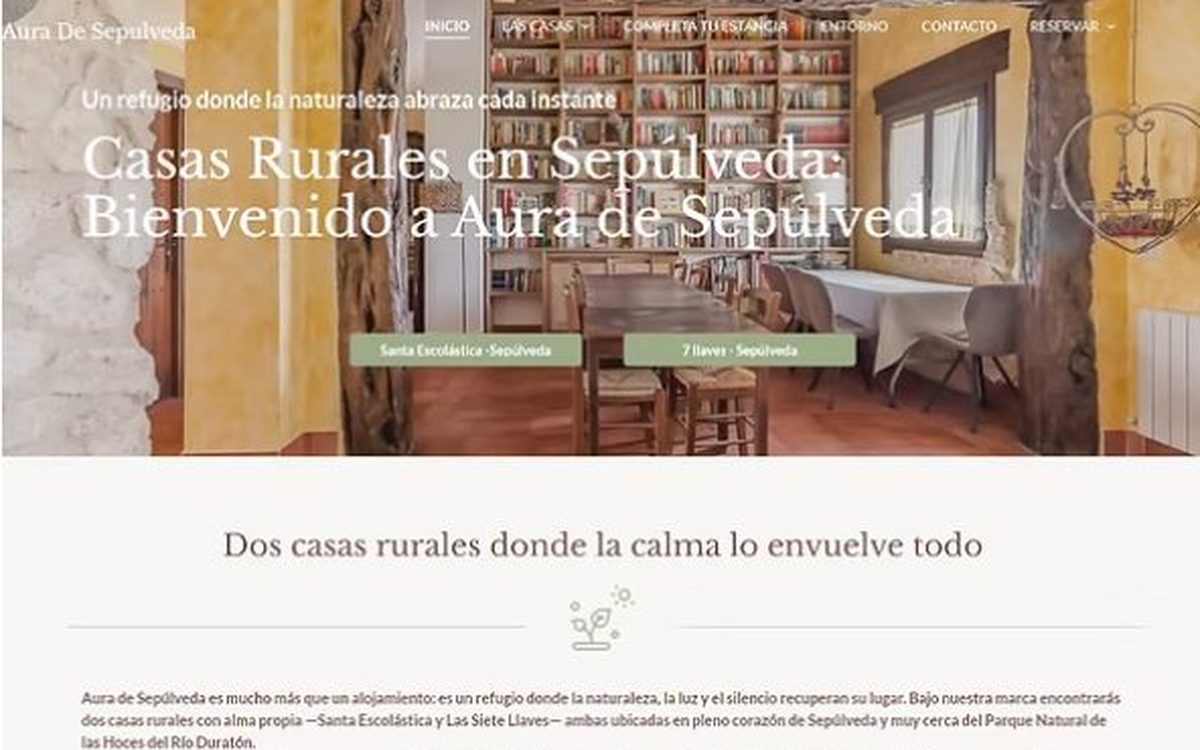
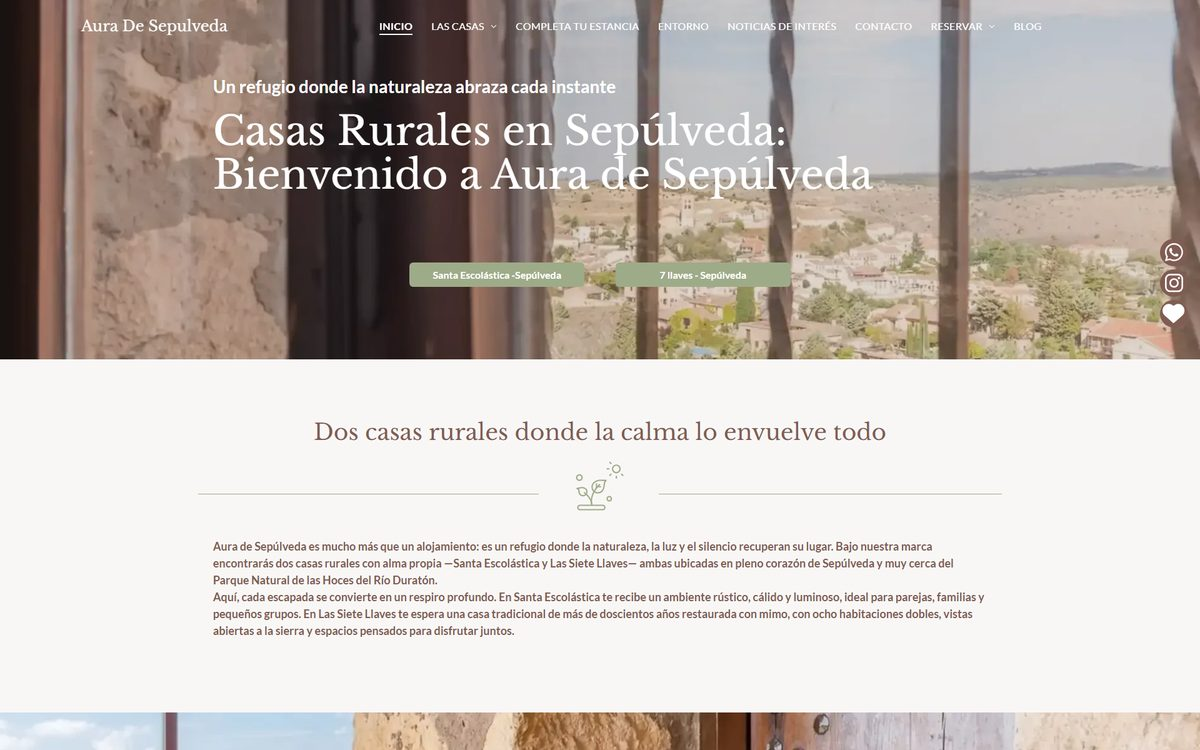
Capturas nuevas de Talauto y Aura, y arreglo del minimóvil en iPhone

diff --git a/index.html b/index.html
@@ -11,7 +11,7 @@
 <link rel="preconnect" href="https://fonts.googleapis.com">
 <link rel="preconnect" href="https://fonts.gstatic.com" crossorigin>
 <link href="https://fonts.googleapis.com/css2?family=Archivo:wdth,wght@125,400;125,500;125,700;125,800&family=DM+Sans:ital,wght@0,400;0,500;0,700;1,400&family=JetBrains+Mono:wght@400;500;700&display=swap" rel="stylesheet">
-<link rel="stylesheet" href="css/styles.css">
+<link rel="stylesheet" href="css/styles.css?v=2">
 </head>
 <body>
 
@@ -181,13 +181,13 @@
 <details class="pj-more"><summary>Qué hice</summary><ul><li>Definición de la página a partir de las necesidades del servicio de Career &amp; Talent.</li><li>Diseño en Figma e implementación completa, de escritorio a móvil.</li><li>Formulario de inscripción en tres pasos para reducir la fricción.</li><li>Perfiles, beneficios y requisitos ordenados para que la empresa decida rápido.</li><li>Vídeos por edición, galería y logos de empresas para generar confianza.</li></ul></details>
 <a class="pj-link" href="https://eventos.nuclio.school/hiring-day" target="_blank" rel="noopener">Visitar la web<svg width="14" height="14" viewBox="0 0 14 14" aria-hidden="true"><path d="M3 11 11 3M5 3h6v6" fill="none" stroke="currentColor" stroke-width="2"/></svg></a></div>
 </article><article class="pj flip" id="proyecto-talauto">
-<div class="pj-media"><div class="pj-browser"><div class="pj-bar" aria-hidden="true"><span></span><span></span><span></span><em>talauto.com</em></div><div class="pj-view pj-fill" aria-label="Web de Talauto en escritorio"><img src="assets/img/talauto.jpg" alt="Web de Talauto en escritorio"></div></div><div class="pj-phone" tabindex="0" aria-label="Web de Talauto en móvil, desplazable"><img src="assets/img/talauto-en-movil.jpg" alt="Web de Talauto en móvil"></div></div>
+<div class="pj-media"><div class="pj-browser"><div class="pj-bar" aria-hidden="true"><span></span><span></span><span></span><em>talauto.com</em></div><div class="pj-view" tabindex="0" aria-label="Web de Talauto en escritorio, desplazable"><img src="assets/img/talauto-en-escritorio.jpg" alt="Web de Talauto en escritorio"></div></div><div class="pj-phone" tabindex="0" aria-label="Web de Talauto en móvil, desplazable"><img src="assets/img/talauto-en-movil.jpg" alt="Web de Talauto en móvil"></div></div>
 <div class="pj-txt"><p class="pj-tag">Desarrollo Front-End</p><h3 class="d">talauto.com</h3><p class="pj-title">Reinventando la compra de coches online</p><p class="pj-sum">Concesionario con más de 50 años de historia y referente en la zona centro de España.</p><ul class="pj-tech" aria-label="Tecnologías"><li>HTML</li><li>CSS</li><li>SASS</li><li>JavaScript</li><li>jQuery</li><li>Bootstrap</li><li>Twig</li><li>Phalcon</li><li>SQL</li><li>Git</li></ul>
 <dl class="pj-meta"><div><dt>Empresa</dt><dd>inventario.pro</dd></div><div><dt>Rol</dt><dd>Desarrolladora web principal</dd></div><div><dt>Sector</dt><dd>Automoción, Toledo</dd></div></dl>
 <details class="pj-more"><summary>Qué hice</summary><ul><li>Maquetación front-end de vistas y secciones clave, con código limpio y responsive.</li><li>Rediseño y refactorización de componentes UI.</li><li>Jerarquía de contenidos para buscar y comparar vehículos.</li><li>Experiencia móvil preparada para mucha información y filtros.</li></ul></details>
 <a class="pj-link" href="https://talauto.com" target="_blank" rel="noopener">Visitar la web<svg width="14" height="14" viewBox="0 0 14 14" aria-hidden="true"><path d="M3 11 11 3M5 3h6v6" fill="none" stroke="currentColor" stroke-width="2"/></svg></a></div>
 </article><article class="pj" id="proyecto-aura-de-sepulveda">
-<div class="pj-media"><div class="pj-browser"><div class="pj-bar" aria-hidden="true"><span></span><span></span><span></span><em>auradesepulveda.com</em></div><div class="pj-view pj-fill" aria-label="Web de Aura de Sepúlveda en escritorio"><img src="assets/img/aura-de-sepulveda.jpg" alt="Web de Aura de Sepúlveda en escritorio"></div></div><div class="pj-phone" tabindex="0" aria-label="Web de Aura de Sepúlveda en móvil, desplazable"><img src="assets/img/aura-de-sepulveda-en-movil.jpg" alt="Web de Aura de Sepúlveda en móvil"></div></div>
+<div class="pj-media"><div class="pj-browser"><div class="pj-bar" aria-hidden="true"><span></span><span></span><span></span><em>auradesepulveda.com</em></div><div class="pj-view" tabindex="0" aria-label="Web de Aura de Sepúlveda en escritorio, desplazable"><img src="assets/img/aura-de-sepulveda-en-escritorio.jpg" alt="Web de Aura de Sepúlveda en escritorio"></div></div><div class="pj-phone" tabindex="0" aria-label="Web de Aura de Sepúlveda en móvil, desplazable"><img src="assets/img/aura-de-sepulveda-en-movil.jpg" alt="Web de Aura de Sepúlveda en móvil"></div></div>
 <div class="pj-txt"><p class="pj-tag ux">Diseño UI/UX</p><h3 class="d">auradesepulveda.com</h3><p class="pj-title">Una experiencia de calma antes incluso de reservar</p><p class="pj-sum">Dos casas rurales con personalidad propia junto a las Hoces del Río Duratón.</p><ul class="pj-tech" aria-label="Tecnologías"><li>Duda</li><li>Componentes personalizados</li><li>Diseño responsive</li><li>SEO</li><li>IA generativa</li><li>Salesforce</li></ul>
 <dl class="pj-meta"><div><dt>Empresa</dt><dd>beedigital</dd></div><div><dt>Rol</dt><dd>Diseñadora web y maquetadora</dd></div><div><dt>Sector</dt><dd>Turismo rural, Segovia</dd></div></dl>
 <details class="pj-more"><summary>Qué hice</summary><ul><li>Arquitectura de la información para dos casas con coherencia.</li><li>Storytelling visual con fotografía protagonista.</li><li>Jerarquías que equilibran emoción e información práctica.</li><li>CTAs de reserva integrados sin romper el tono sereno.</li></ul></details>
@@ -291,6 +291,6 @@
 </section>
 </main>
 
-<script src="js/main.js" defer></script>
+<script src="js/main.js?v=2" defer></script>
 </body>
 </html>

diff --git a/css/styles.css b/css/styles.css
@@ -230,10 +230,10 @@ html,body{overflow-x:clip}
 .pj-media{position:relative;padding:0 56px 48px 0}
 .pj.flip .pj-media{padding:0 0 48px 56px}
 /* Alto explícito: Safari de iOS ignora aspect-ratio aquí y el móvil crecía hasta el alto de la captura */
-.pj-phone{--pw:150px;position:absolute;right:0;bottom:0;width:var(--pw);height:calc(var(--pw) * 19 / 9);min-height:0;overflow-y:auto;-webkit-overflow-scrolling:touch;border:6px solid #111;border-radius:24px;background:#fff;box-shadow:0 20px 40px rgba(0,0,0,.55);scrollbar-width:none}
+.pj-phone{--pw:150px;position:absolute;right:0;bottom:0;width:var(--pw);height:calc(var(--pw) * 19 / 9);max-height:calc(var(--pw) * 19 / 9);min-height:0;overflow-y:auto;-webkit-overflow-scrolling:touch;border:6px solid #111;border-radius:24px;background:#fff;box-shadow:0 20px 40px rgba(0,0,0,.55);scrollbar-width:none}
 .pj-phone::-webkit-scrollbar{display:none}
 .pj.flip .pj-phone{right:auto;left:0}
-.pj-phone img{width:100%;height:auto}
+.pj-phone img{display:block;width:100%;height:auto;max-width:none}
 .pj-tag{display:inline-block;margin:0 0 20px;font-size:13px;font-weight:700;padding:5px 12px;background:#fff;color:#000}
 .pj-tag.ux{background:var(--accent);color:#fff}
 .pj-txt h3{font-size:clamp(28px,2.8vw,40px);line-height:1.05;font-weight:700;letter-spacing:-.02em;overflow-wrap:anywhere}
